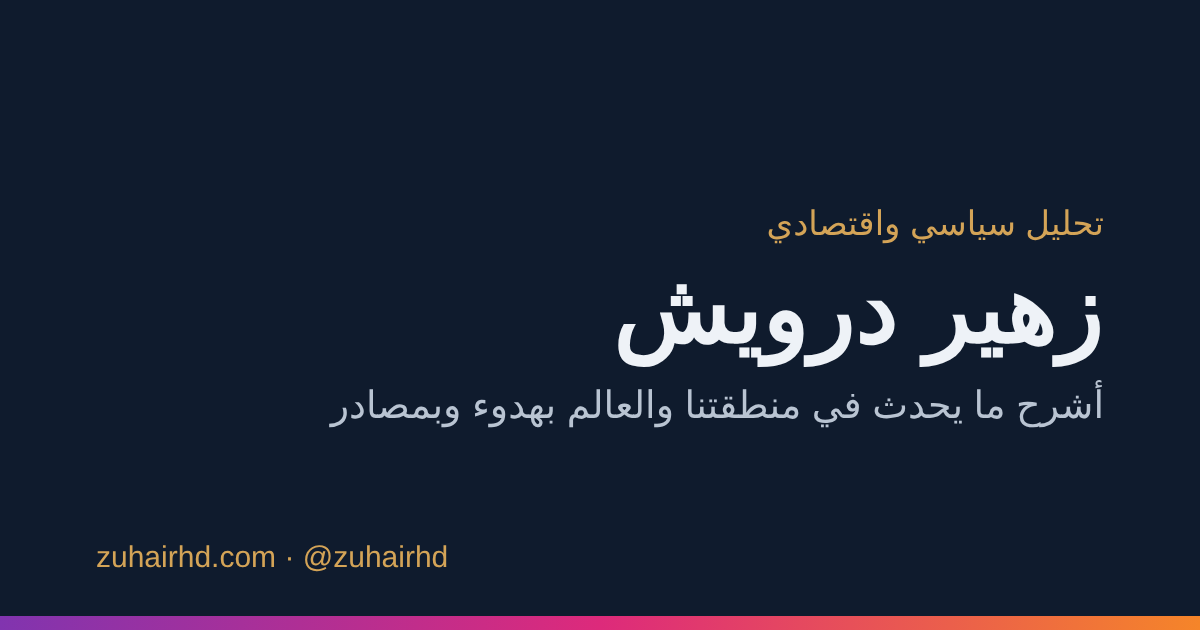
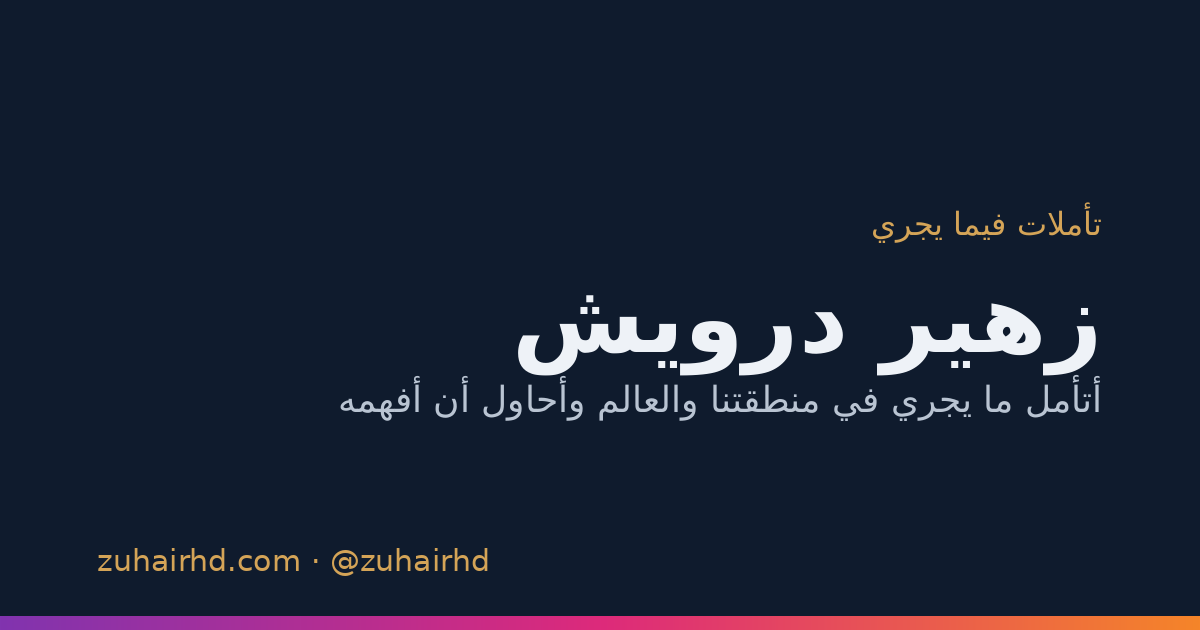
Update tagline and bio, add Future Smart Support feature card, new OG image

Changed region(s): [[0.2775, 0.4524, 0.925, 0.6937], [0.6475, 0.3317, 0.925, 0.3921], [0.0617, 0.8746, 0.4317, 0.9349]]

diff --git a/site/index.html b/site/index.html
@@ -3,15 +3,15 @@
 <head>
 <meta charset="utf-8">
 <meta name="viewport" content="width=device-width, initial-scale=1, viewport-fit=cover">
-<title>زهير درويش | تحليل سياسي واقتصادي</title>
-<meta name="description" content="أشرح ما يحدث في منطقتنا والعالم بهدوء وبمصادر. سياسة · اقتصاد · تقنية، من مسقط.">
+<title>زهير درويش | تأملات فيما يجري</title>
+<meta name="description" content="أتأمل ما يجري في منطقتنا والعالم وأحاول أن أفهمه، وأشارك ما أتعلمه بهدوء مع ذكر المصادر. من مسقط.">
 <meta name="theme-color" content="#0f1b2d">
 <!-- عدّل الرابط إلى نطاقك بعد التأكد منه -->
 <link rel="canonical" href="https://zuhairhd.com/">
 <meta property="og:type" content="profile">
-<meta property="og:title" content="زهير درويش | تحليل سياسي واقتصادي">
-<meta property="og:description" content="أشرح ما يحدث في منطقتنا والعالم بهدوء وبمصادر.">
-<meta property="og:image" content="https://zuhairhd.com/assets/og-image.png">
+<meta property="og:title" content="زهير درويش | تأملات فيما يجري">
+<meta property="og:description" content="أتأمل ما يجري في منطقتنا والعالم وأحاول أن أفهمه.">
+<meta property="og:image" content="https://zuhairhd.com/assets/og-image.png?v=2">
 <meta property="og:url" content="https://zuhairhd.com/">
 <meta property="og:locale" content="ar_AR">
 <meta property="og:image:width" content="1200">
@@ -79,6 +79,20 @@
   .s{color:var(--muted);font-size:.84rem;display:block}
   .arrow{color:var(--muted);font-size:1.1rem}
   .badge{display:inline-block;font-size:.72rem;font-weight:600;color:var(--accent);background:var(--accent-soft);border-radius:999px;padding:1px 8px;margin-inline-start:6px;vertical-align:middle}
+  /* بطاقة مميزة: Future Smart Support */
+  a.feature{
+    position:relative;display:block;padding:20px 20px 18px;border-radius:var(--radius);text-decoration:none;
+    color:#eef2f7;background:linear-gradient(135deg,#0f1b2d 0%,#1a2d48 100%);
+    border:1px solid #d4a457;box-shadow:0 8px 24px rgba(15,27,45,.28);overflow:hidden;
+    transition:transform .15s ease, box-shadow .15s ease;margin-bottom:10px;
+  }
+  a.feature::before{content:"";position:absolute;inset:0 0 auto 0;height:3px;background:linear-gradient(90deg,#b8873b,#e9d3a8,#b8873b)}
+  a.feature:hover{transform:translateY(-2px);box-shadow:0 12px 28px rgba(15,27,45,.36)}
+  .feature .kicker{display:inline-block;font-size:.74rem;font-weight:600;color:#0f1b2d;background:#d4a457;border-radius:999px;padding:2px 10px;margin-bottom:10px}
+  .feature .ft{display:block;font-size:1.2rem;font-weight:700;margin-bottom:4px}
+  .feature .fd{display:block;color:#b9c4d2;font-size:.92rem;margin-bottom:14px}
+  .feature .fbtn{display:inline-flex;align-items:center;gap:8px;font-weight:600;font-size:.95rem;color:#0f1b2d;background:#e9d3a8;border-radius:12px;padding:9px 16px}
+  .feature .dom{display:block;color:#d4a457;font-size:.8rem;margin-top:10px;direction:ltr;text-align:right}
   footer{text-align:center;color:var(--muted);font-size:.8rem;margin-top:40px}
   footer a{color:inherit}
   @media (prefers-reduced-motion: reduce){ *{transition:none!important} }
@@ -91,8 +105,8 @@
     <!-- صورة الملف الشخصي: assets/avatar.jpg (مربعة، 400×400 على الأقل) -->
     <img class="avatar" src="assets/avatar.jpg" alt="زهير درويش" width="112" height="112" onerror="this.outerHTML='<div class=&quot;avatar&quot; style=&quot;display:grid;place-items:center;font-size:44px;font-weight:700;color:var(--accent)&quot;>ز</div>'">
     <h1>زهير درويش</h1>
-    <p class="tag">تحليل سياسي واقتصادي</p>
-    <p class="bio">أشرح ما يحدث في منطقتنا والعالم بهدوء وبمصادر.<br>سياسة · اقتصاد · تقنية، بعين محترف تقنية. من مسقط 🇴🇲</p>
+    <p class="tag">تأملات فيما يجري</p>
+    <p class="bio">أتأمل ما يجري في منطقتنا والعالم وأحاول أن أفهمه.<br>أشارك ما أتعلمه بهدوء، مع ذكر المصادر. من مسقط 🇴🇲</p>
     <div class="stats" aria-label="أرقام الحساب">
       <span><b>+27 ألف</b>متابع</span>
       <span><b>+3.8 مليون</b>مشاهدة في سنة</span>
@@ -181,6 +195,13 @@
 
   <section>
     <h2>للأعمال</h2>
+    <a class="feature" href="https://futuresmartsupport.com" rel="noopener">
+      <span class="kicker">شركتي</span>
+      <span class="ft">Future Smart Support</span>
+      <span class="fd">موظف استقبال هاتفي بالذكاء الاصطناعي يرد على اتصالات عملائك بالعربية على مدار الساعة.</span>
+      <span class="fbtn">زر الموقع <span aria-hidden="true">‹</span></span>
+      <span class="dom">futuresmartsupport.com</span>
+    </a>
     <div class="list">
       <a class="item" href="https://www.instagram.com/fss.hq/" rel="noopener">
         <span class="ico" aria-hidden="true">📞</span>

diff --git a/README.md b/README.md
@@ -1,6 +1,6 @@
 # zuhairhd.com
 
-الصفحة الشخصية لـ **زهير درويش** — تحليل سياسي واقتصادي. صفحة روابط ثابتة تحل محل Linktree في Instagram (@zuhairhd).
+الصفحة الشخصية لـ **زهير درويش** — تأملات فيما يجري. صفحة روابط ثابتة تحل محل Linktree في Instagram (@zuhairhd).
 
 ## البنية
 ```
